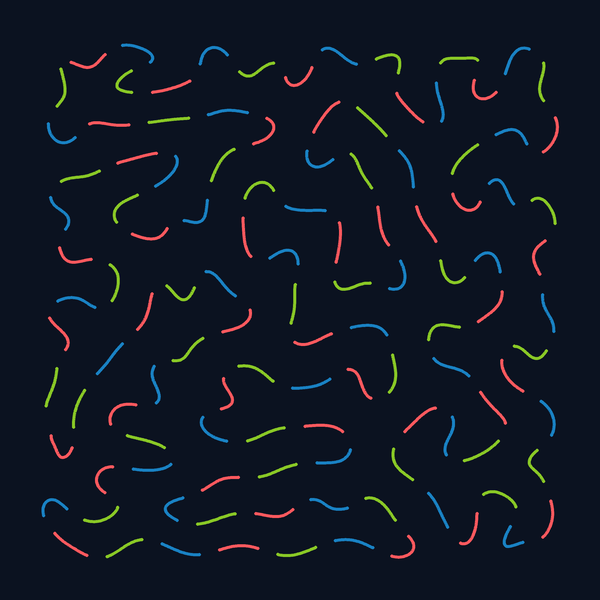
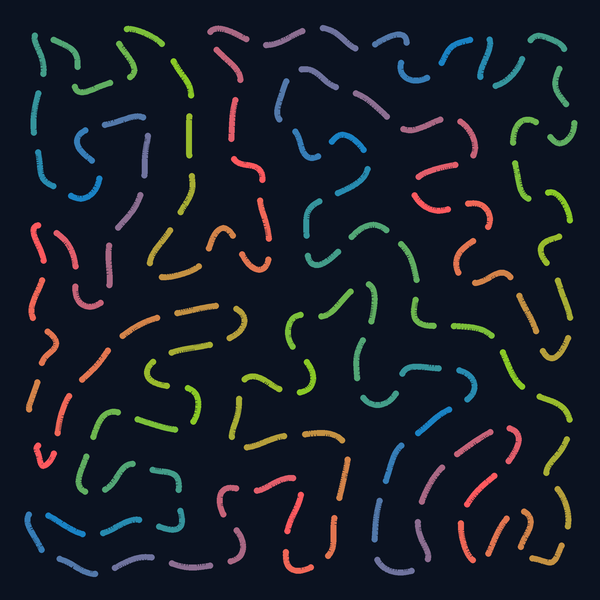
Document the live wallpaper feature and the color-blend crawl on the docs page
index.html previously said nothing about wallpaper_engine.py at all, even
though the "Configure Wallpaper..." dialog and background daemon have
been part of gui.py for a while. Adds a full "Live wallpaper (Windows)"
section: what it does (daily preset rotation, per-preset editor incl.
the new Blend slider, display settings, monitor choice, start/stop),
two new screenshots of the sidebar entry point and the full dialog, and
a "Known issue" callout on the "Render behind desktop icons" checkbox
-- what it does, why it's off by default (the click-freeze bug found
and fixed earlier), and that revisiting the underlying cause is still
on the list.

Also threads the new crawl color-blend feature through the rest of the
page: hero tagline/badge, the Color crawl feature card and usage
entry, and regenerates screenshots/example-crawl.png so the gallery
example matches the new default (blended) look instead of the old
3-flat-color cut.

Verified by rendering index.html full-page in headless Chromium and
reviewing every section for layout/formatting issues.

Claude-Session: https://claude.ai/code/session_01PuBymSxEcZMHmAjiYD5zK4

diff --git a/index.html b/index.html
@@ -272,13 +272,15 @@
       <span class="badge">Python 3.10+</span>
       <span class="badge">Desktop app (Tkinter)</span>
       <span class="badge">Windows / macOS / Linux</span>
+      <span class="badge">Live wallpaper (Windows)</span>
     </div>
     <h1>Flowing Curve Generator</h1>
     <p class="tagline">
       Draws a single, continuous, non-intersecting organic line that fills a shape
       edge to edge &mdash; like one long strand of string laid down by hand.
       Pick a shape (or draw your own), tune how it flows, and export it as a
-      PNG or SVG.
+      PNG or SVG &mdash; or set the looping, color-blended "chasing lights"
+      version as an animated live wallpaper on Windows.
     </p>
     <img class="hero-shot" src="screenshots/gui-full-app.png" alt="Flowing Curve Generator desktop app, showing a completed curve fill next to the control sidebar">
   </div>
@@ -382,7 +384,9 @@
       <div class="feature">
         <h4>Color crawl</h4>
         <p>A looping "chasing lights" animation: 3 customizable colors chase down the
-        already-drawn curve, with adjustable crawler size, gap, and speed.</p>
+        already-drawn curve, with adjustable crawler size, gap, and speed &mdash; plus
+        a blend control that fades each color smoothly into the next instead of
+        cutting sharply between them.</p>
       </div>
       <div class="feature">
         <h4>Live appearance controls</h4>
@@ -393,6 +397,12 @@
         <h4>Export</h4>
         <p>Save any result as PNG or SVG (with a validation report alongside it) for
         printing, plotting, or use as a desktop/phone wallpaper.</p>
+      </div>
+      <div class="feature">
+        <h4>Live wallpaper (Windows)</h4>
+        <p>Runs the color-crawl animation as an actual desktop wallpaper in the
+        background, rotating through a set of presets you configure &mdash; one new
+        look per day.</p>
       </div>
     </div>
   </section>
@@ -510,8 +520,10 @@ python gui.py</code></pre>
       <div class="usage-block">
         <dt>Color crawl</dt>
         <dd>A looping "chasing lights" animation along the finished curve. Pick 3
-        colors, and adjust crawler size, the gap between crawlers, and crawl speed
-        &mdash; all update live while it's running. <strong>Start/Stop crawl</strong> toggles it.</dd>
+        colors, and adjust crawler size, the gap between crawlers, crawl speed, and
+        <strong>Blend</strong> (how many shades to fade through between colors, instead
+        of cutting sharply from one to the next) &mdash; all update live while it's
+        running. <strong>Start/Stop crawl</strong> toggles it.</dd>
       </div>
       <div class="usage-block">
         <dt>Save As...</dt>
@@ -524,6 +536,63 @@ python gui.py</code></pre>
         you've saved there before &mdash; the current on-screen preview is kept.</dd>
       </div>
     </dl>
+  </section>
+
+  <section id="wallpaper">
+    <h2>Live wallpaper (Windows)</h2>
+    <p class="lead">
+      <code>wallpaper_engine.py</code> runs the color-crawl animation as an actual
+      desktop wallpaper, in the background, independently of the main app &mdash; close
+      the window (or the app itself) and it keeps going. It shares its animation and
+      color-blend logic with the GUI's own preview, so what you see in
+      <strong>Configure Wallpaper...</strong> is exactly what ends up on your desktop.
+    </p>
+
+    <div class="two-col">
+      <div>
+        <img src="screenshots/gui-live-wallpaper-section.png" alt="The Color crawl and Live wallpaper controls in the main app sidebar, including the new Blend slider" style="border: 1px solid var(--border);">
+      </div>
+      <div>
+        <img src="screenshots/wallpaper-dialog.png" alt="The Configure Wallpaper dialog, showing daily preset rotation, per-preset colors and blend, display settings, monitor choice, and the experimental rendering toggle" style="border: 1px solid var(--border);">
+      </div>
+    </div>
+
+    <h3>What it does</h3>
+    <ul class="list">
+      <li><strong>Daily rotation</strong> &mdash; a list of presets (add/remove/reorder
+      as many "days" as you like), one shown per calendar day, wrapping back to the top.</li>
+      <li><strong>Per-preset editor</strong> &mdash; fill shape, 3 crawler colors,
+      crawler size, gap, speed, and <strong>Blend</strong> (steps between colors), all
+      independent per preset. <strong>Copy from current Color crawl settings</strong>
+      grabs whatever's dialed in on the main preview so you can turn a look you like
+      into a wallpaper day in one click.</li>
+      <li><strong>Display settings</strong> &mdash; background color, stroke width, and
+      edge inset, shared across every preset.</li>
+      <li><strong>Monitors</strong> &mdash; run on just the monitor the app is on, or
+      stretch the same pattern across all of them.</li>
+      <li><strong>Start Wallpaper Now / Stop Wallpaper</strong> &mdash; saves your
+      changes and launches (or stops) <code>wallpaper_engine.py</code> as its own
+      background process, so it survives closing the dialog, the app, or your sign-in
+      session.</li>
+    </ul>
+
+    <div class="callout" style="border-left-color: var(--accent-3); background: rgba(255, 89, 94, 0.08);">
+      <strong>Known issue &mdash; "Render behind desktop icons":</strong> Windows has a
+      well-known trick for placing a window behind your desktop icons (instead of on
+      top of them), and this app can attempt it. On testing, though, it turned out to
+      freeze all mouse clicks on whichever monitor the wallpaper's window was on
+      &mdash; including the taskbar and unrelated apps &mdash; until that window was
+      minimized. The root cause traces back to that specific Windows trick itself
+      (reparenting the window under a different process's window), not to anything
+      else that was tried and ruled out along the way (DPI handling, z-order, focus).
+      Because of that, it's an opt-in, off-by-default checkbox
+      (<strong>Render behind desktop icons (experimental)</strong>) rather than the
+      default behavior: left off (the default), the wallpaper sits on top of your
+      icons instead of behind them &mdash; they're visually covered while it runs, but
+      clicks still reach them. I plan to dig back into <em>why</em> that reparenting
+      trick breaks input on some setups and see if it can be made safe, but for now
+      the safe, click-friendly default is what ships.
+    </div>
   </section>
 
   <section id="notes">
@@ -545,10 +614,12 @@ python gui.py</code></pre>
       <tr><th>File</th><th>What it is</th></tr>
       <tr><td><code>organic_curve.py</code></td><td>The generation algorithm and PNG/SVG rendering &mdash; usable standalone from the command line, or imported by the GUI.</td></tr>
       <tr><td><code>gui.py</code></td><td>The desktop app (this is what <code>run.bat</code> / <code>run.sh</code> launch).</td></tr>
+      <tr><td><code>wallpaper_engine.py</code></td><td>The background live-wallpaper process, launched by <strong>Start Wallpaper Now</strong> in <code>gui.py</code>'s <strong>Configure Wallpaper...</strong> dialog &mdash; Windows only.</td></tr>
       <tr><td><code>requirements.txt</code></td><td>Python dependencies (numpy, scipy, shapely, Pillow).</td></tr>
       <tr><td><code>run.bat</code> / <code>run.sh</code></td><td>One-click setup + launch, for Windows and macOS/Linux respectively &mdash; already in every clone.</td></tr>
       <tr><td><code>install.bat</code> / <code>install.sh</code></td><td>The standalone installer linked at the top of this page &mdash; downloads the whole project fresh, then hands off to <code>run.bat</code> / <code>run.sh</code> above.</td></tr>
       <tr><td><code>outputs/</code></td><td>Where the app writes the current preview and anything saved with "Save As...".</td></tr>
+      <tr><td><code>wallpaper_config.json</code></td><td>Your saved wallpaper presets and settings &mdash; created on first use of <strong>Configure Wallpaper...</strong>, not part of the source.</td></tr>
     </table>
   </section>
 
